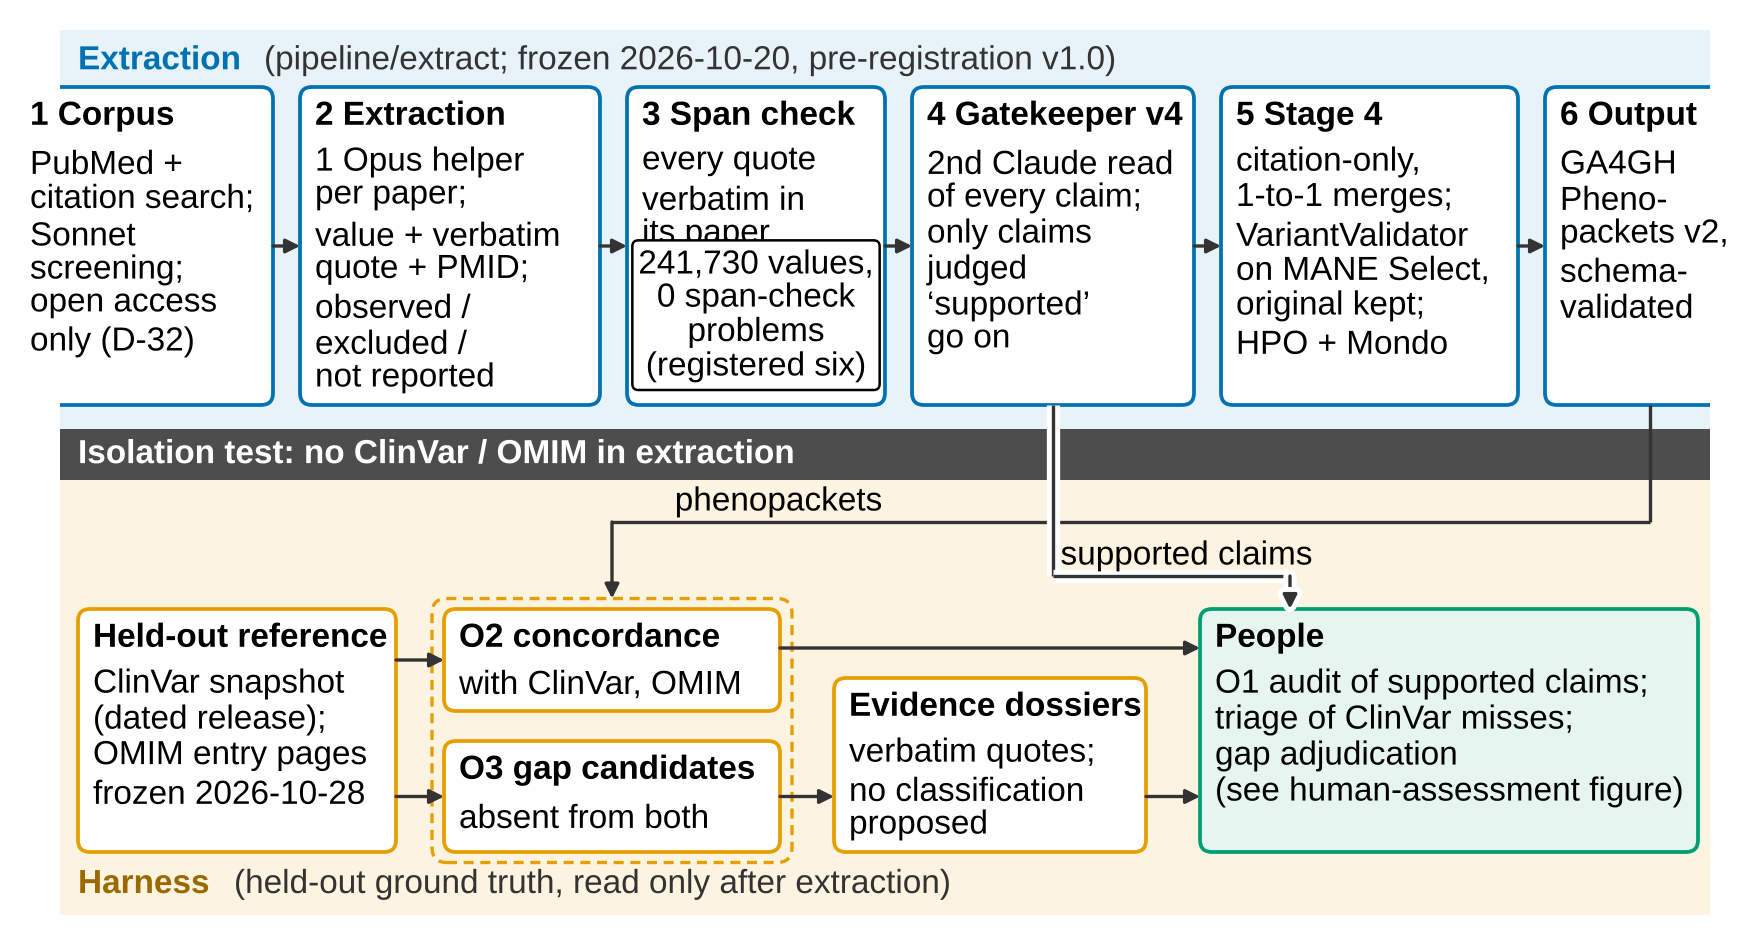
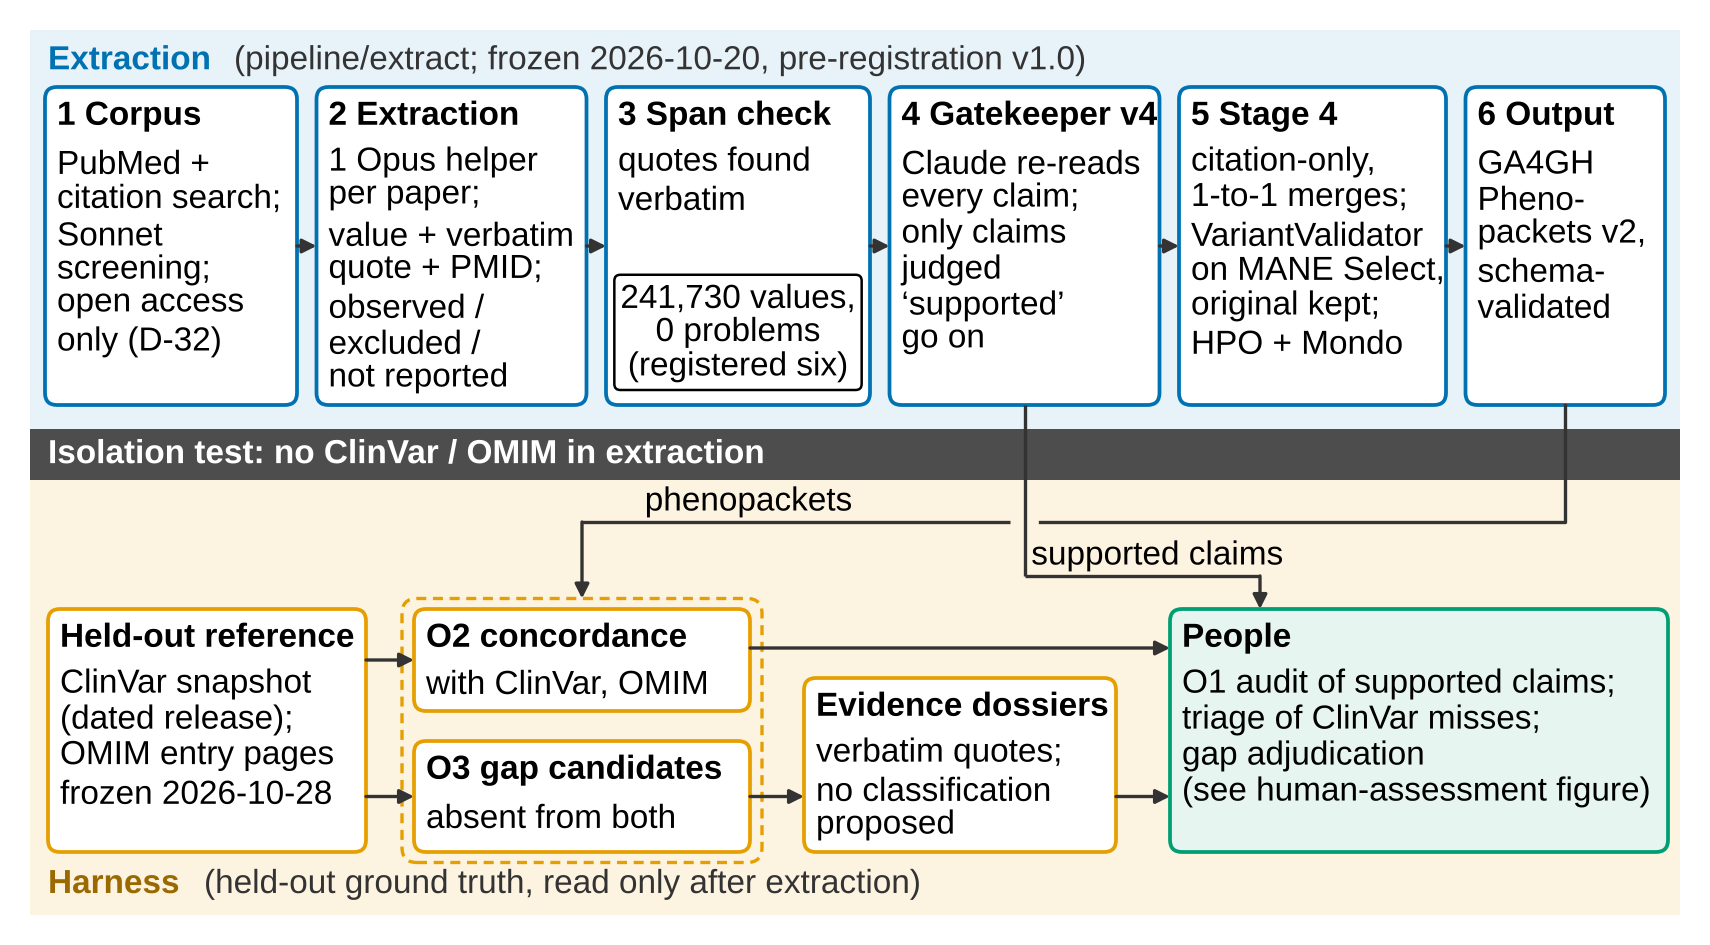
Paper v4 run_po1: human assessment design diagram
Claude-Session: https://claude.ai/code/session_015Q6ZxHWkQ4QYcUm5kPJ1mX

diff --git a/reports/paper_v4/run_po1/plots/fig_pipeline_overview/plot.py b/reports/paper_v4/run_po1/plots/fig_pipeline_overview/plot.py
@@ -39,11 +39,11 @@ def box(x0, x1, y0, y1, title, body, edge, fill, badge=None):
     p = FancyBboxPatch((x0, y0), x1 - x0, y1 - y0, boxstyle="round,pad=0,rounding_size=0.04",
                        fc=fill, ec=edge, lw=0.9, zorder=3)
     ax.add_patch(p)
-    t = ax.text(x0 + 0.05, y1 - 0.045, title, fontsize=FS, fontweight="bold", va="top",
+    t = ax.text(x0 + 0.04, y1 - 0.045, title, fontsize=FS, fontweight="bold", va="top",
                 ha="left", zorder=4)
     boxes.append(((x0, x1, y0, y1), t))
     if body:
-        b = ax.text(x0 + 0.05, y1 - 0.19, body, fontsize=FS, va="top", ha="left",
+        b = ax.text(x0 + 0.04, y1 - 0.19, body, fontsize=FS, va="top", ha="left",
                     linespacing=1.15, zorder=4)
         boxes.append(((x0, x1, y0, y1), b))
     if badge:
@@ -84,8 +84,8 @@ ax.text(0.58, 0.05, "(held-out ground truth, read only after extraction)", fonts
 
 # ---------------------------------------------------------------- top lane
 TY0, TY1 = 1.70, 2.76
-GAP = 0.09
-widths = [0.86, 1.00, 0.86, 0.94, 0.99, 0.70]
+GAP = 0.065
+widths = [0.84, 0.90, 0.88, 0.90, 0.89, 0.665]  # sums with gaps to 5.40
 xs = []
 x = (W - sum(widths) - GAP * (len(widths) - 1)) / 2
 for w in widths:
@@ -95,13 +95,13 @@ for w in widths:
 top = [
     ("1 Corpus", "PubMed +\ncitation search;\nSonnet\nscreening;\nopen access\nonly (D-32)"),
     ("2 Extraction", "1 Opus helper\nper paper;\nvalue + verbatim\nquote + PMID;\nobserved /\nexcluded /\nnot reported"),
-    ("3 Span check", "every quote\nverbatim in\nits paper"),
-    ("4 Gatekeeper v4", "2nd Claude read\nof every claim;\nonly claims\njudged\n‘supported’\ngo on"),
+    ("3 Span check", "quotes found\nverbatim"),
+    ("4 Gatekeeper v4", "Claude re-reads\nevery claim;\nonly claims\njudged\n‘supported’\ngo on"),
     ("5 Stage 4", "citation-only,\n1-to-1 merges;\nVariantValidator\non MANE Select,\noriginal kept;\nHPO + Mondo"),
     ("6 Output", "GA4GH\nPheno-\npackets v2,\nschema-\nvalidated"),
 ]
 for i, ((x0, x1), (title, body)) in enumerate(zip(xs, top)):
-    badge = "241,730 values,\n0 span-check\nproblems\n(registered six)" if i == 2 else None
+    badge = "241,730 values,\n0 problems\n(registered six)" if i == 2 else None
     box(x0, x1, TY0, TY1, title, body, BLUE, "white", badge=badge)
 TMID = (TY0 + TY1) / 2
 for (a0, a1), (b0, b1) in zip(xs[:-1], xs[1:]):
@@ -140,17 +140,20 @@ grp = FancyBboxPatch((o2[0] - 0.04, o3[2] - 0.035), o2[1] - o2[0] + 0.08,
                      o2[3] - o3[2] + 0.07, boxstyle="round,pad=0,rounding_size=0.05",
                      fc="none", ec=ORANGE, lw=0.8, ls=(0, (3, 2)), zorder=2)
 ax.add_patch(grp)
-arrow([(x_out, TY0), (x_out, RUN_HI), (x_o2o3, RUN_HI), (x_o2o3, o2[3] + 0.035)])
+x_gk = (xs[3][0] + xs[3][1]) / 2
+HOP = 0.05  # gap where this route passes under the gatekeeper route
+ax.plot([x_out, x_out, x_gk + HOP], [TY0, RUN_HI, RUN_HI], color=INK, lw=0.8, zorder=6)
+arrow([(x_gk - HOP, RUN_HI), (x_o2o3, RUN_HI), (x_o2o3, o2[3] + 0.035)])
 ax.text((x_o2o3 + 2.95) / 2, RUN_HI + 0.015, "phenopackets", fontsize=FS, va="bottom",
         ha="center", zorder=7)
-# Gatekeeper -> People: the O1 claim pool; drawn over the other route with a white gap
-x_gk = (xs[3][0] + xs[3][1]) / 2
+# Gatekeeper -> People: the O1 claim pool (the phenopackets route passes under it)
 x_pp = ppl[0] + 0.30
-arrow([(x_gk, TY0), (x_gk, RUN_LO), (x_pp, RUN_LO), (x_pp, ppl[3])], halo=True, z=8)
+arrow([(x_gk, TY0), (x_gk, RUN_LO), (x_pp, RUN_LO), (x_pp, ppl[3])], z=8)
 ax.text((x_gk + x_pp) / 2 + 0.05, RUN_LO + 0.015, "supported claims", fontsize=FS,
         va="bottom", ha="center", zorder=9)
 
 # ---------------------------------------------------------------- overflow check
+print("top lane x-range: %.3f-%.3f of %.2f" % (xs[0][0], xs[-1][1], W))
 fig.canvas.draw()
 r = fig.canvas.get_renderer()
 inv = ax.transData.inverted()
@@ -159,5 +162,12 @@ for (x0, x1, y0, y1), t in boxes:
     if bb.x0 < x0 - 1e-3 or bb.x1 > x1 + 1e-3 or bb.y0 < y0 - 1e-3 or bb.y1 > y1 + 1e-3:
         print(f"OVERFLOW: {t.get_text()[:30]!r} text x{bb.x0:.2f}-{bb.x1:.2f} y{bb.y0:.2f}-{bb.y1:.2f}"
               f" box x{x0:.2f}-{x1:.2f} y{y0:.2f}-{y1:.2f}")
+
+ext = [t.get_window_extent(r).transformed(inv) for _, t in boxes]
+for i in range(len(ext)):
+    for j in range(i + 1, len(ext)):
+        a, b = ext[i], ext[j]
+        if a.x0 < b.x1 and b.x0 < a.x1 and a.y0 < b.y1 and b.y0 < a.y1:
+            print("TEXT OVERLAP:", repr(boxes[i][1].get_text()[:20]), repr(boxes[j][1].get_text()[:20]))
 
 fig.savefig(os.environ["PO_OUT"], dpi=300, bbox_inches="tight", facecolor="white")

diff --git a/reports/paper_v4/run_po1/plots/fig_human_assessment/plan.md b/reports/paper_v4/run_po1/plots/fig_human_assessment/plan.md
@@ -45,4 +45,5 @@ Numbers drawn (complete list): 2026-11-22, 99, 40, 20, 20, 39, 9 (R1–R9), 15 o
   adjudication #D55E00; final sign-off box #000000 edge, grey fill.
 - Stage bands as very light grey rounded panels with the stage title top-left.
 - Arrows thin dark grey (#444444), solid; plan branches labelled directly.
-- Double-column width 7 in, 16:9 (7 × 3.94 in); no caption or "Figure N" inside the image.
+- Double-column width 7 in; canvas 7 × 4.5 in (taller than 16:9, about 16:10, so every label fits at 8 pt without overflow; revised in critic round 1). No caption or "Figure N" inside the image.
+- Layout: Stage 1 band on top (left to right); a connector from the floor diamond wraps down to the PI decision node at the left of the Stage 2 band; decision branches to Plan A / Plan B boxes; both feed three stacked track boxes (audit lane tallest, with a 9-node ring and three overlapping triangles); tracks collect into the sign-off box at right. Stage 2 title placed right of the connector. plot.py prints OVERFLOW if any text leaves its box.
